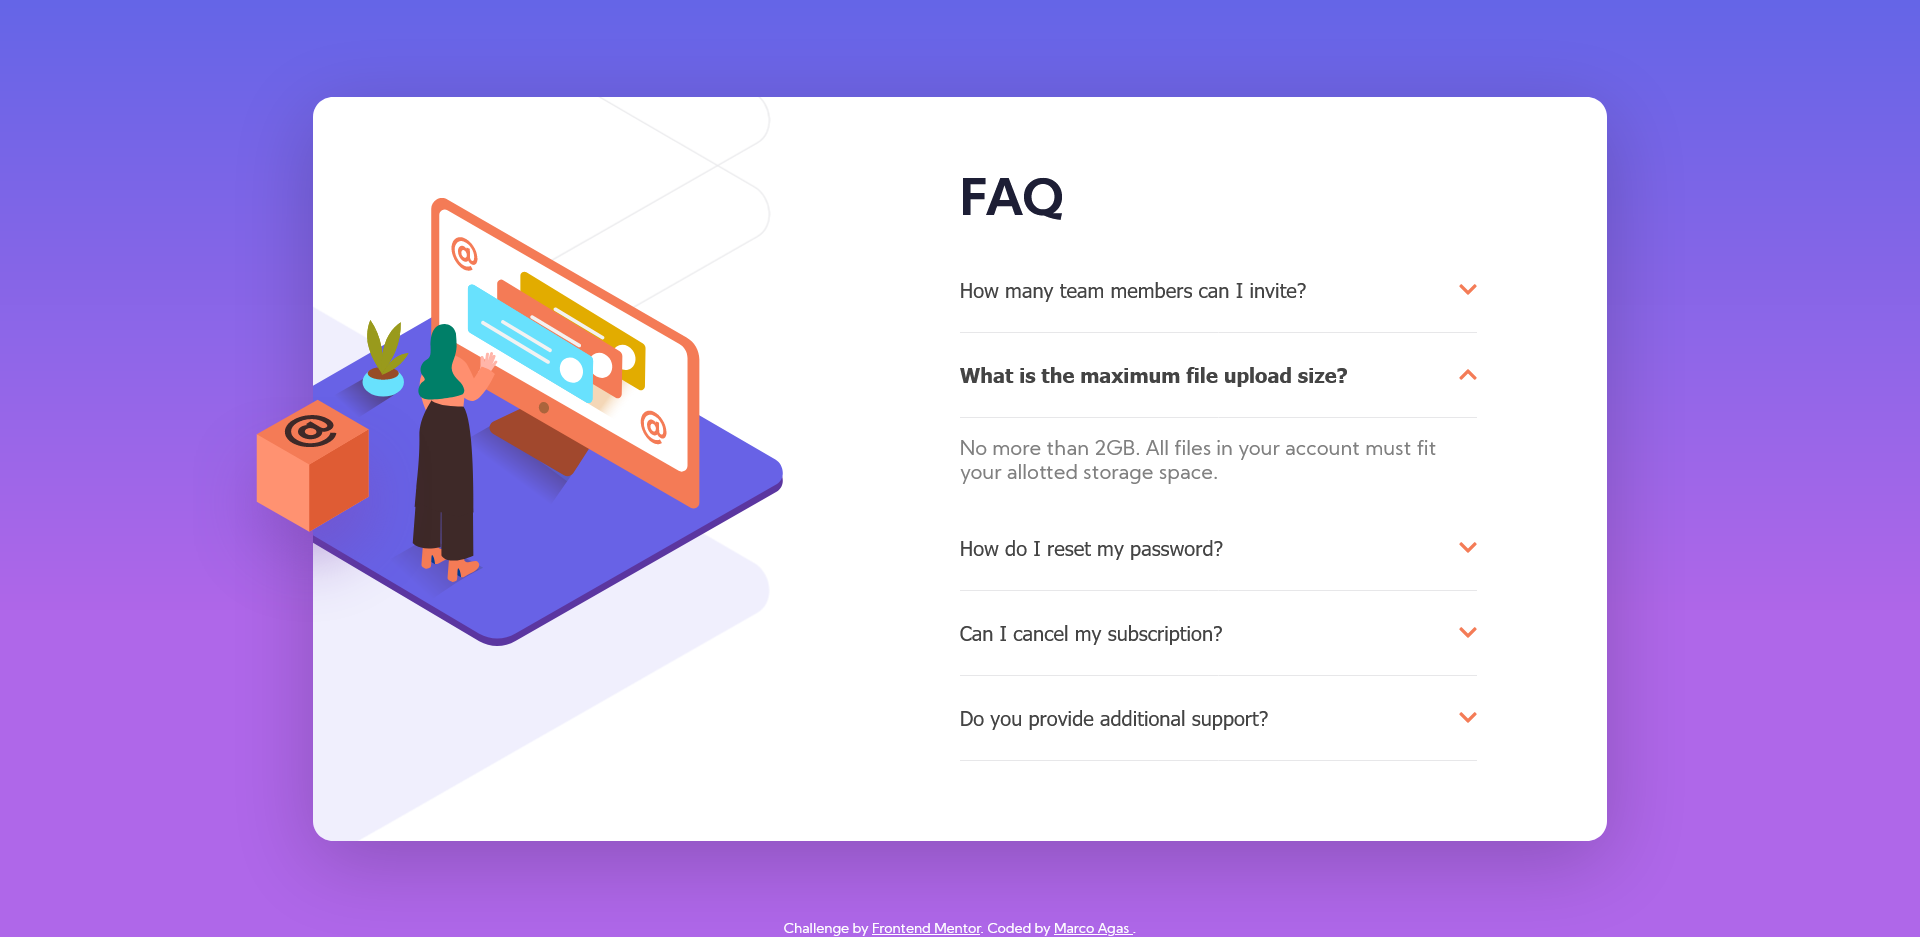
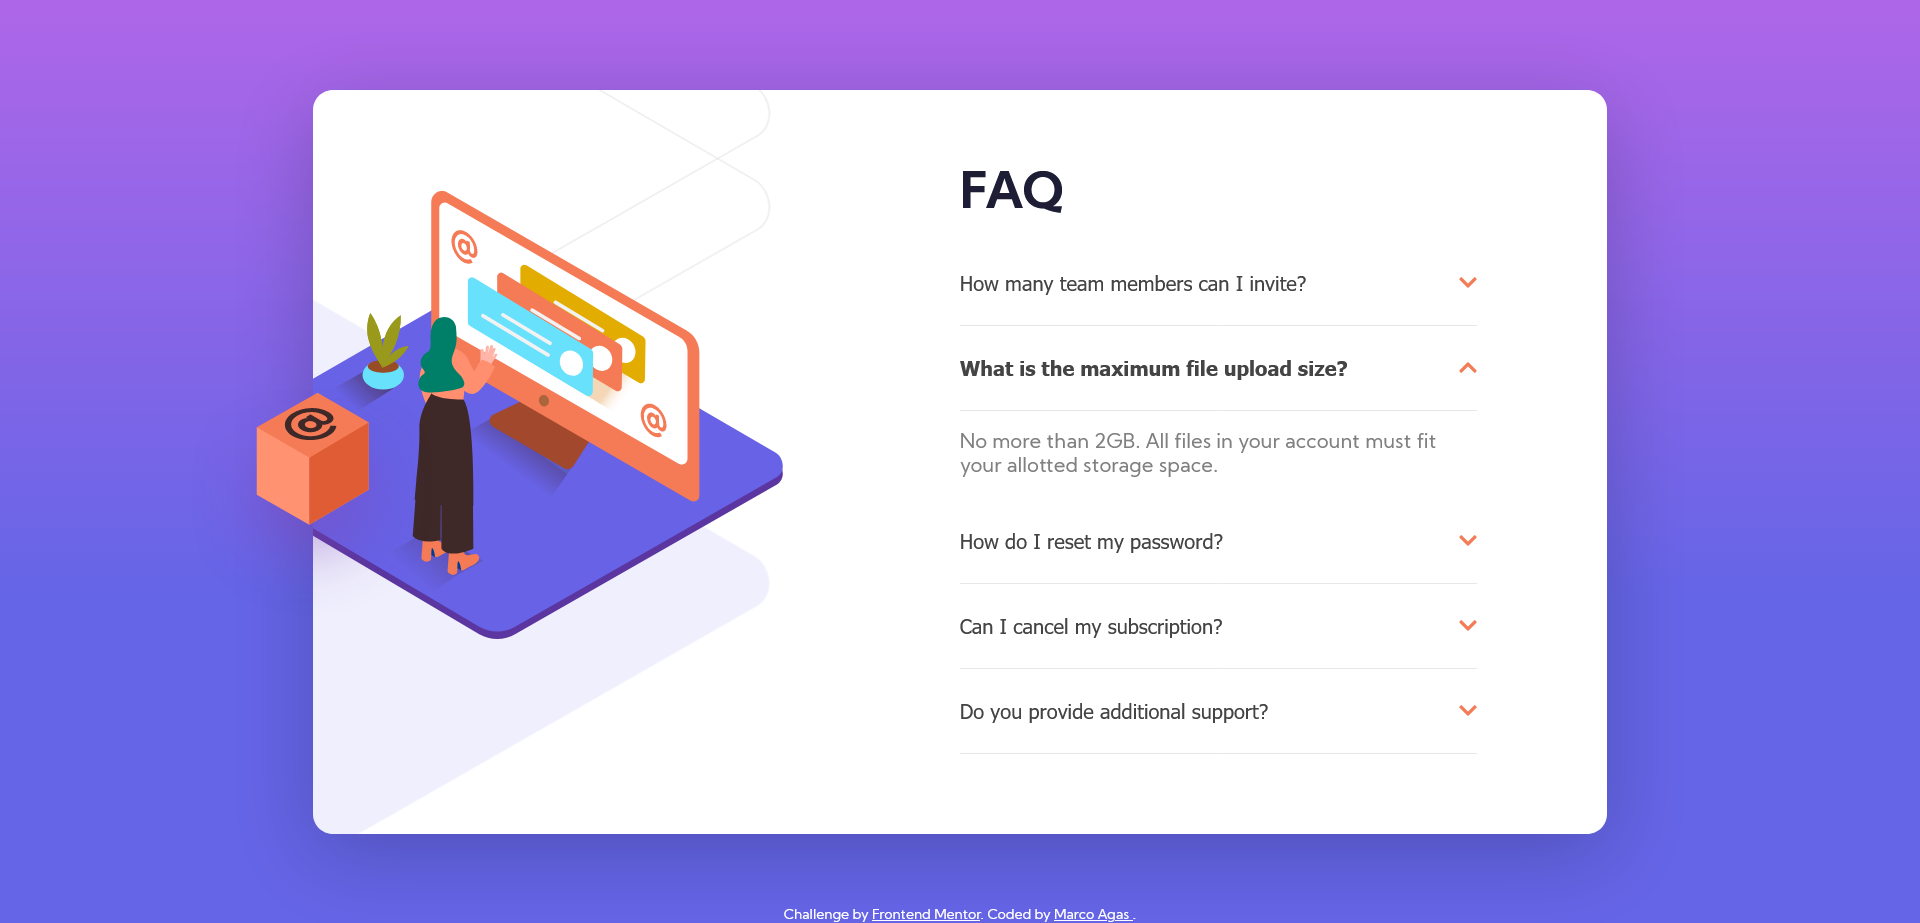
Swapped background colours

diff --git a/css/style.css b/css/style.css
@@ -36,8 +36,8 @@ body {
   min-height: 100vh;
   padding: 2rem 10vw;
   background: var(--color-soft-violet);
-  background: -webkit-gradient(linear, left bottom, left top, color-stop(35%, var(--color-soft-violet)), to(var(--color-soft-blue)));
-  background: linear-gradient(0deg, var(--color-soft-violet) 35%, var(--color-soft-blue) 100%);
+  background: -webkit-gradient(linear, left bottom, left top, color-stop(35%, var(--color-soft-blue)), to(var(--color-soft-violet)));
+  background: linear-gradient(0deg, var(--color-soft-blue) 35%, var(--color-soft-violet) 100%);
   font-family: 'Kumbh Sans', sans-serif;
   font-size: 2.25rem;
 }

diff --git a/style.scss b/style.scss
@@ -56,7 +56,7 @@ body{
     min-height: 100vh;
     padding: 2rem 10vw;
     background: var(--color-soft-violet);
-    background: linear-gradient(0deg, var(--color-soft-violet) 35%, var(--color-soft-blue) 100%);
+    background: linear-gradient(0deg, var(--color-soft-blue) 35%, var(--color-soft-violet) 100%);
     font-family: 'Kumbh Sans', sans-serif;
     font-size: 2.25rem;
 }
